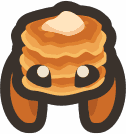
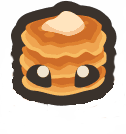
Get images for background

diff --git a/src/games/platformer/Scene.js b/src/games/platformer/Scene.js
@@ -24,7 +24,9 @@ import player_image2 from '../../assets/dude-cropped-red.png'
 // @ts-ignore
 import player_image3 from '../../assets/dude-cropped-blue.png'
 // @ts-ignore
-import box_image from '../../assets/box-item-boxed.png'
+// import box_image from '../../assets/box-item-boxed.png'
+import box_image from '../../assets/Battle.io Skins/Crepes.png'
+// import box_image from '../../assets/logo.png'
 // @ts-ignore
 import slimeBlue from '../../assets/slimeBlue.png'
 // @ts-ignore
